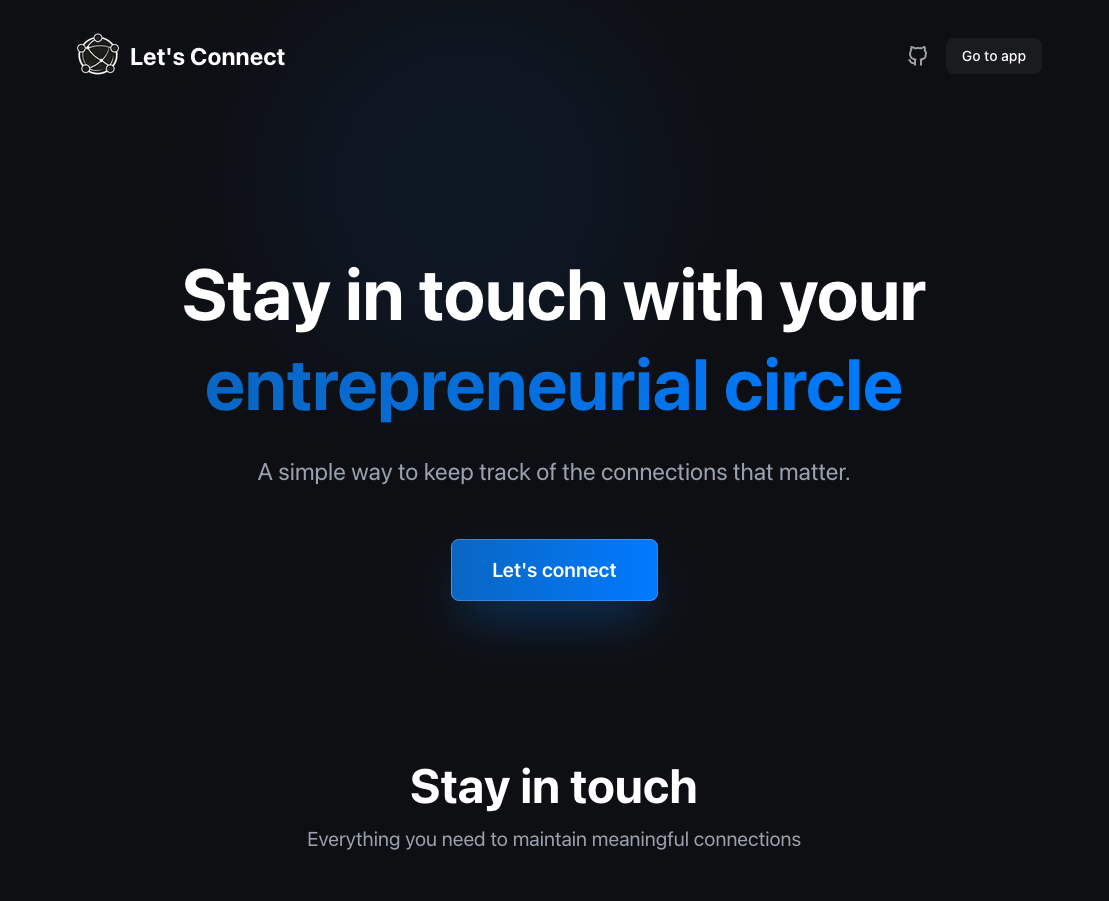
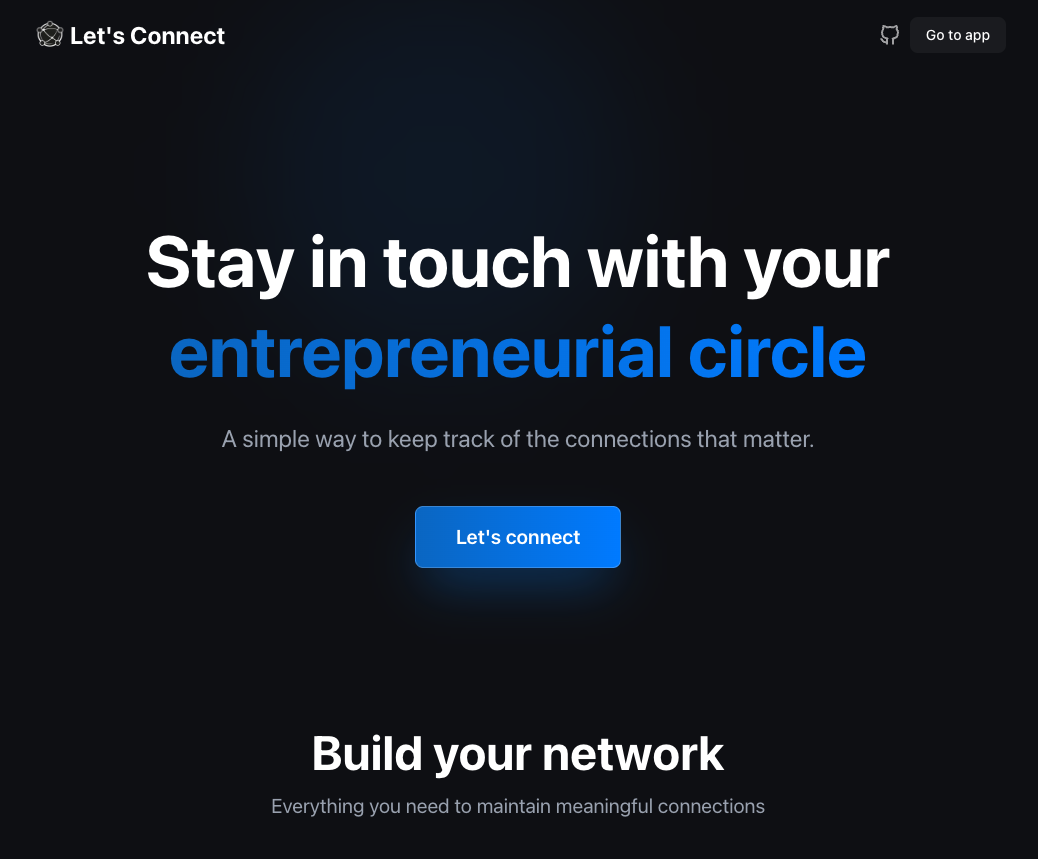
landing: adjust sentence to avoid repetition

diff --git a/src/app/page.tsx b/src/app/page.tsx
@@ -70,7 +70,7 @@ export default async function LandingPage() {
         {/* Solution */}
         <section className="container mx-auto px-6 pt-8 pb-20">
           <div className="max-w-4xl mx-auto text-center mb-16">
-            <h2 className="text-4xl md:text-5xl font-bold mb-4">Stay in touch</h2>
+            <h2 className="text-4xl md:text-5xl font-bold mb-4">Build your network</h2>
             <p className="text-xl text-gray-400">
               Everything you need to maintain meaningful connections
             </p>
